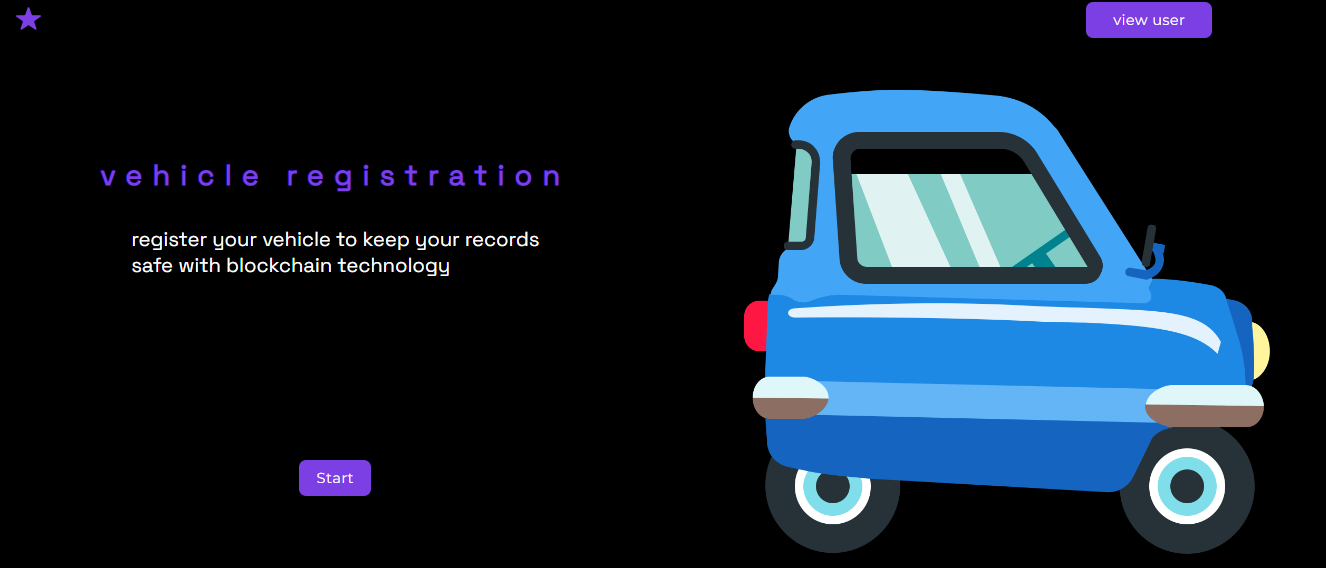
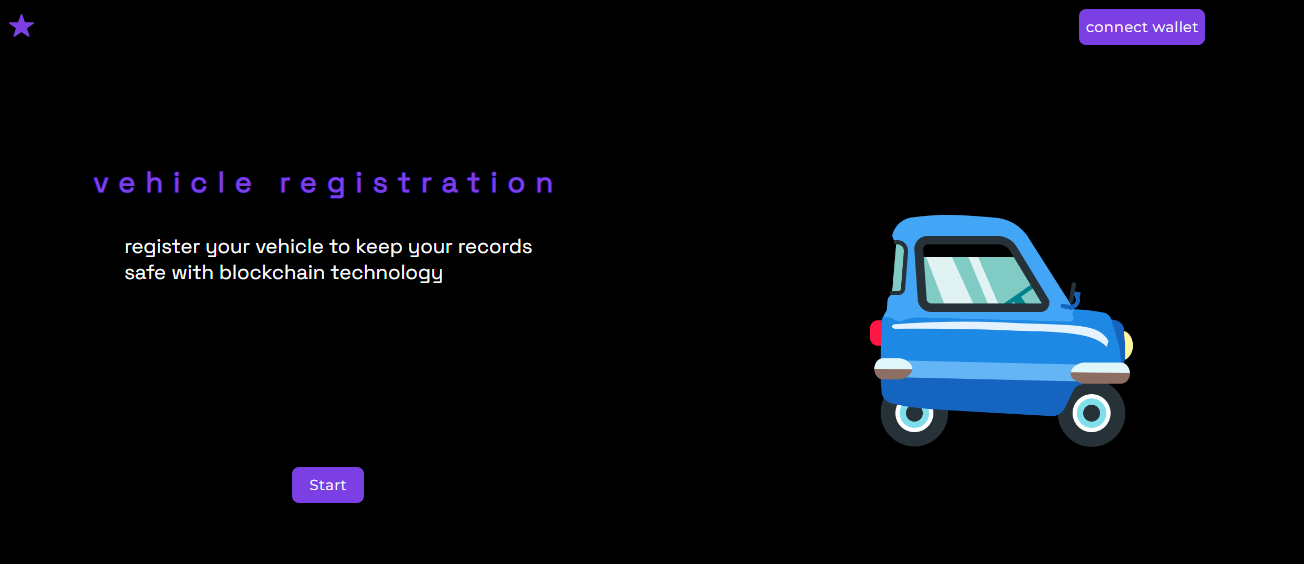
new change frontend

diff --git a/frontend/src/routes/welcome/welcome.scss b/frontend/src/routes/welcome/welcome.scss
@@ -123,6 +123,14 @@ $breackpoints: (
 }
 
 .welcome_article1--imagen {
+    display: flex;
+    justify-content: center;
+    align-items: center;
+}
+
+.welcome_article1--imagen-child {
+    width: 300px;
+    height: 300px;
          @include media-up(sm) {
             background-image: url(./img1.png);
                 background-position: center;
@@ -134,17 +142,25 @@ $breackpoints: (
 
 }
 
+
 .img2 {
     background-image: url(./img2.png);
         background-position: center;
         background-size: contain;
         background-repeat: no-repeat;
 }
+.container-img3 {
+    display: flex;
+    justify-content: center;
+    align-items: center;
+}
 
 .img3 {
-            background-image: url(./png2.png);
-            background-position: center;
-            background-size: contain;
-            background-repeat: no-repeat;
-        
+    width: 300px;
+    height: 300px;
+    background-image: url(./png2.png);
+    background-position: center;
+    background-size: contain;
+    background-repeat: no-repeat;
+
 }

diff --git a/frontend/src/routes/welcome/Welcome.jsx b/frontend/src/routes/welcome/Welcome.jsx
@@ -1,10 +1,8 @@
 import './welcome.css'
 import Button from '../../components/button1/button'
 import { NavLink } from 'react-router-dom'
+
 const Welcome = () => {
-
-
-
   return (
     <div className="welcome">
       <section className='welcome__section1'>
@@ -24,6 +22,9 @@ const Welcome = () => {
         </article>
 
         <article className='welcome_article1--imagen'>
+          <div className='welcome_article1--imagen-child'>
+
+          </div>
             
         </article>
 
@@ -43,7 +44,10 @@ const Welcome = () => {
           <span>
             you can also register your maintenance in our dapps
           </span>
-          <div className='img3'>
+          <div className='container-img3'>
+            <div className='img3'>
+
+            </div>
 
           </div>
         </article>

diff --git a/frontend/src/routes/welcome/welcome.css b/frontend/src/routes/welcome/welcome.css
@@ -109,8 +109,18 @@
   font-family: "Space Grotesk", sans-serif;
 }
 
+.welcome_article1--imagen {
+  display: flex;
+  justify-content: center;
+  align-items: center;
+}
+
+.welcome_article1--imagen-child {
+  width: 300px;
+  height: 300px;
+}
 @media screen and (min-width: 300px) {
-  .welcome_article1--imagen {
+  .welcome_article1--imagen-child {
     background-image: url(./img1.png);
     background-position: center;
     background-size: contain;
@@ -124,7 +134,15 @@
   background-repeat: no-repeat;
 }
 
+.container-img3 {
+  display: flex;
+  justify-content: center;
+  align-items: center;
+}
+
 .img3 {
+  width: 300px;
+  height: 300px;
   background-image: url(./png2.png);
   background-position: center;
   background-size: contain;

diff --git a/frontend/index.html b/frontend/index.html
@@ -24,9 +24,6 @@
     <div id="ViewMaitenance"></div>
     <div id="MaitenanceHistory"></div>
 
-
-
-
     <script type="module" src="/src/main.jsx"></script>
   </body>
 </html>
